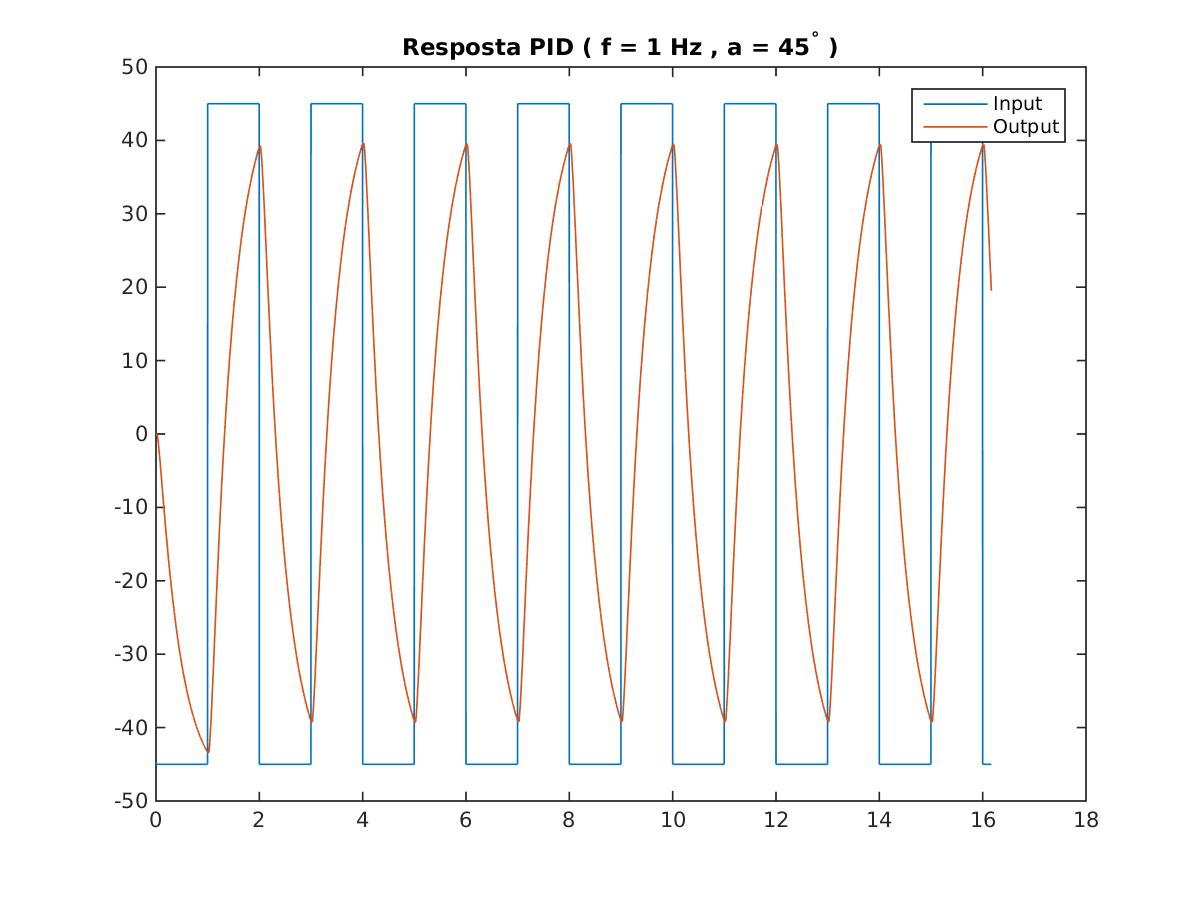
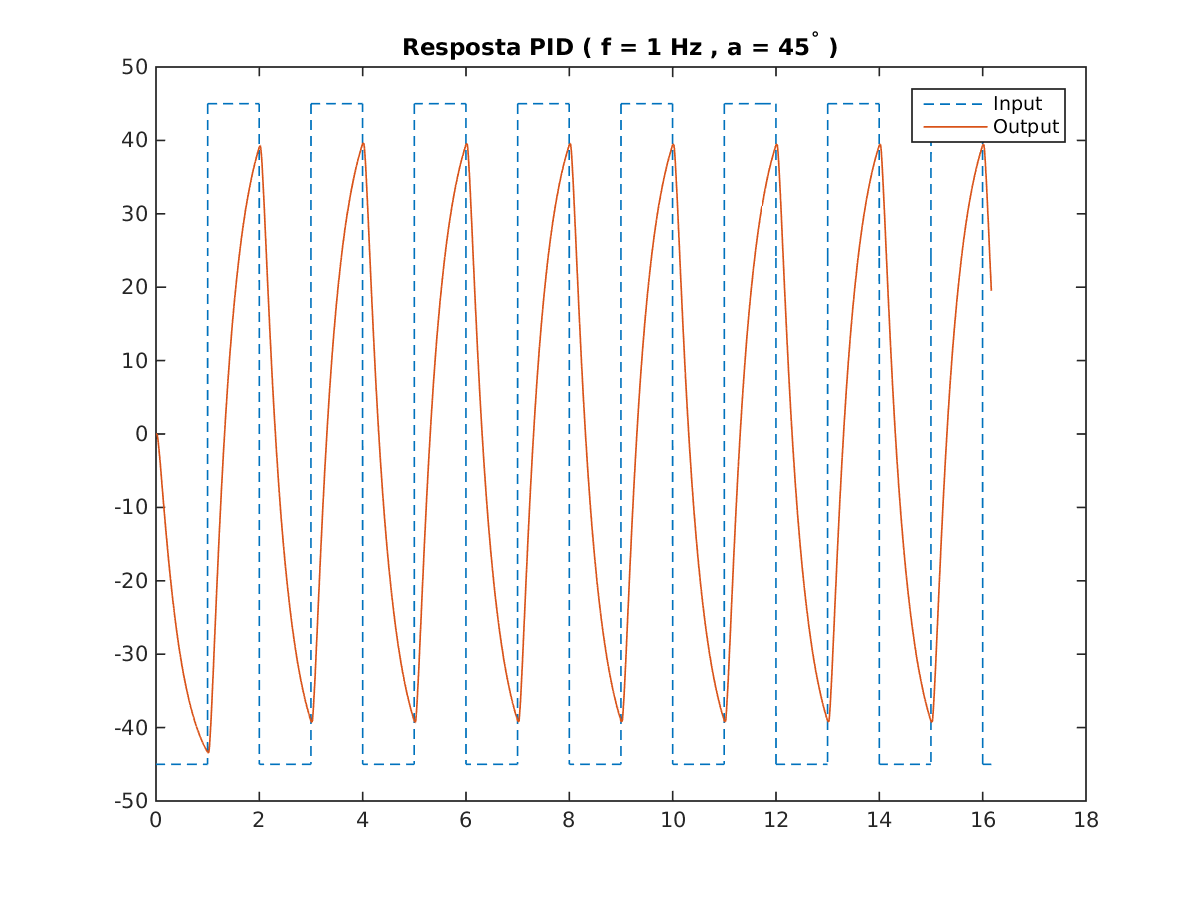
Change plot for dashed to enable B&W printing

diff --git a/src/matlab/quanserData.m b/src/matlab/quanserData.m
@@ -28,7 +28,7 @@ for i = 1:4
     % Plot
     figure;
     timeInterval = time < 20;
-    plot(time(timeInterval),u(timeInterval),time(timeInterval),y(timeInterval))
+    plot(time(timeInterval),u(timeInterval),'--',time(timeInterval),y(timeInterval),'-')
     legend('Input','Output');
     title(['Resposta PID ( f = ',num2str(f),' Hz , a = ',num2str(stepSize),'^\circ )']);
 
@@ -64,7 +64,7 @@ for i = 1:8
     % Plot
     figure;
     timeInterval = time < 20;
-    plot(time(timeInterval),u(timeInterval),time(timeInterval),y(timeInterval))
+    plot(time(timeInterval),u(timeInterval),'--',time(timeInterval),y(timeInterval),'-')
     legend('Input','Output');
     title(['Resposta SS ( f = ',num2str(f),' Hz , a = ',num2str(stepSize),'^\circ )']);
 
